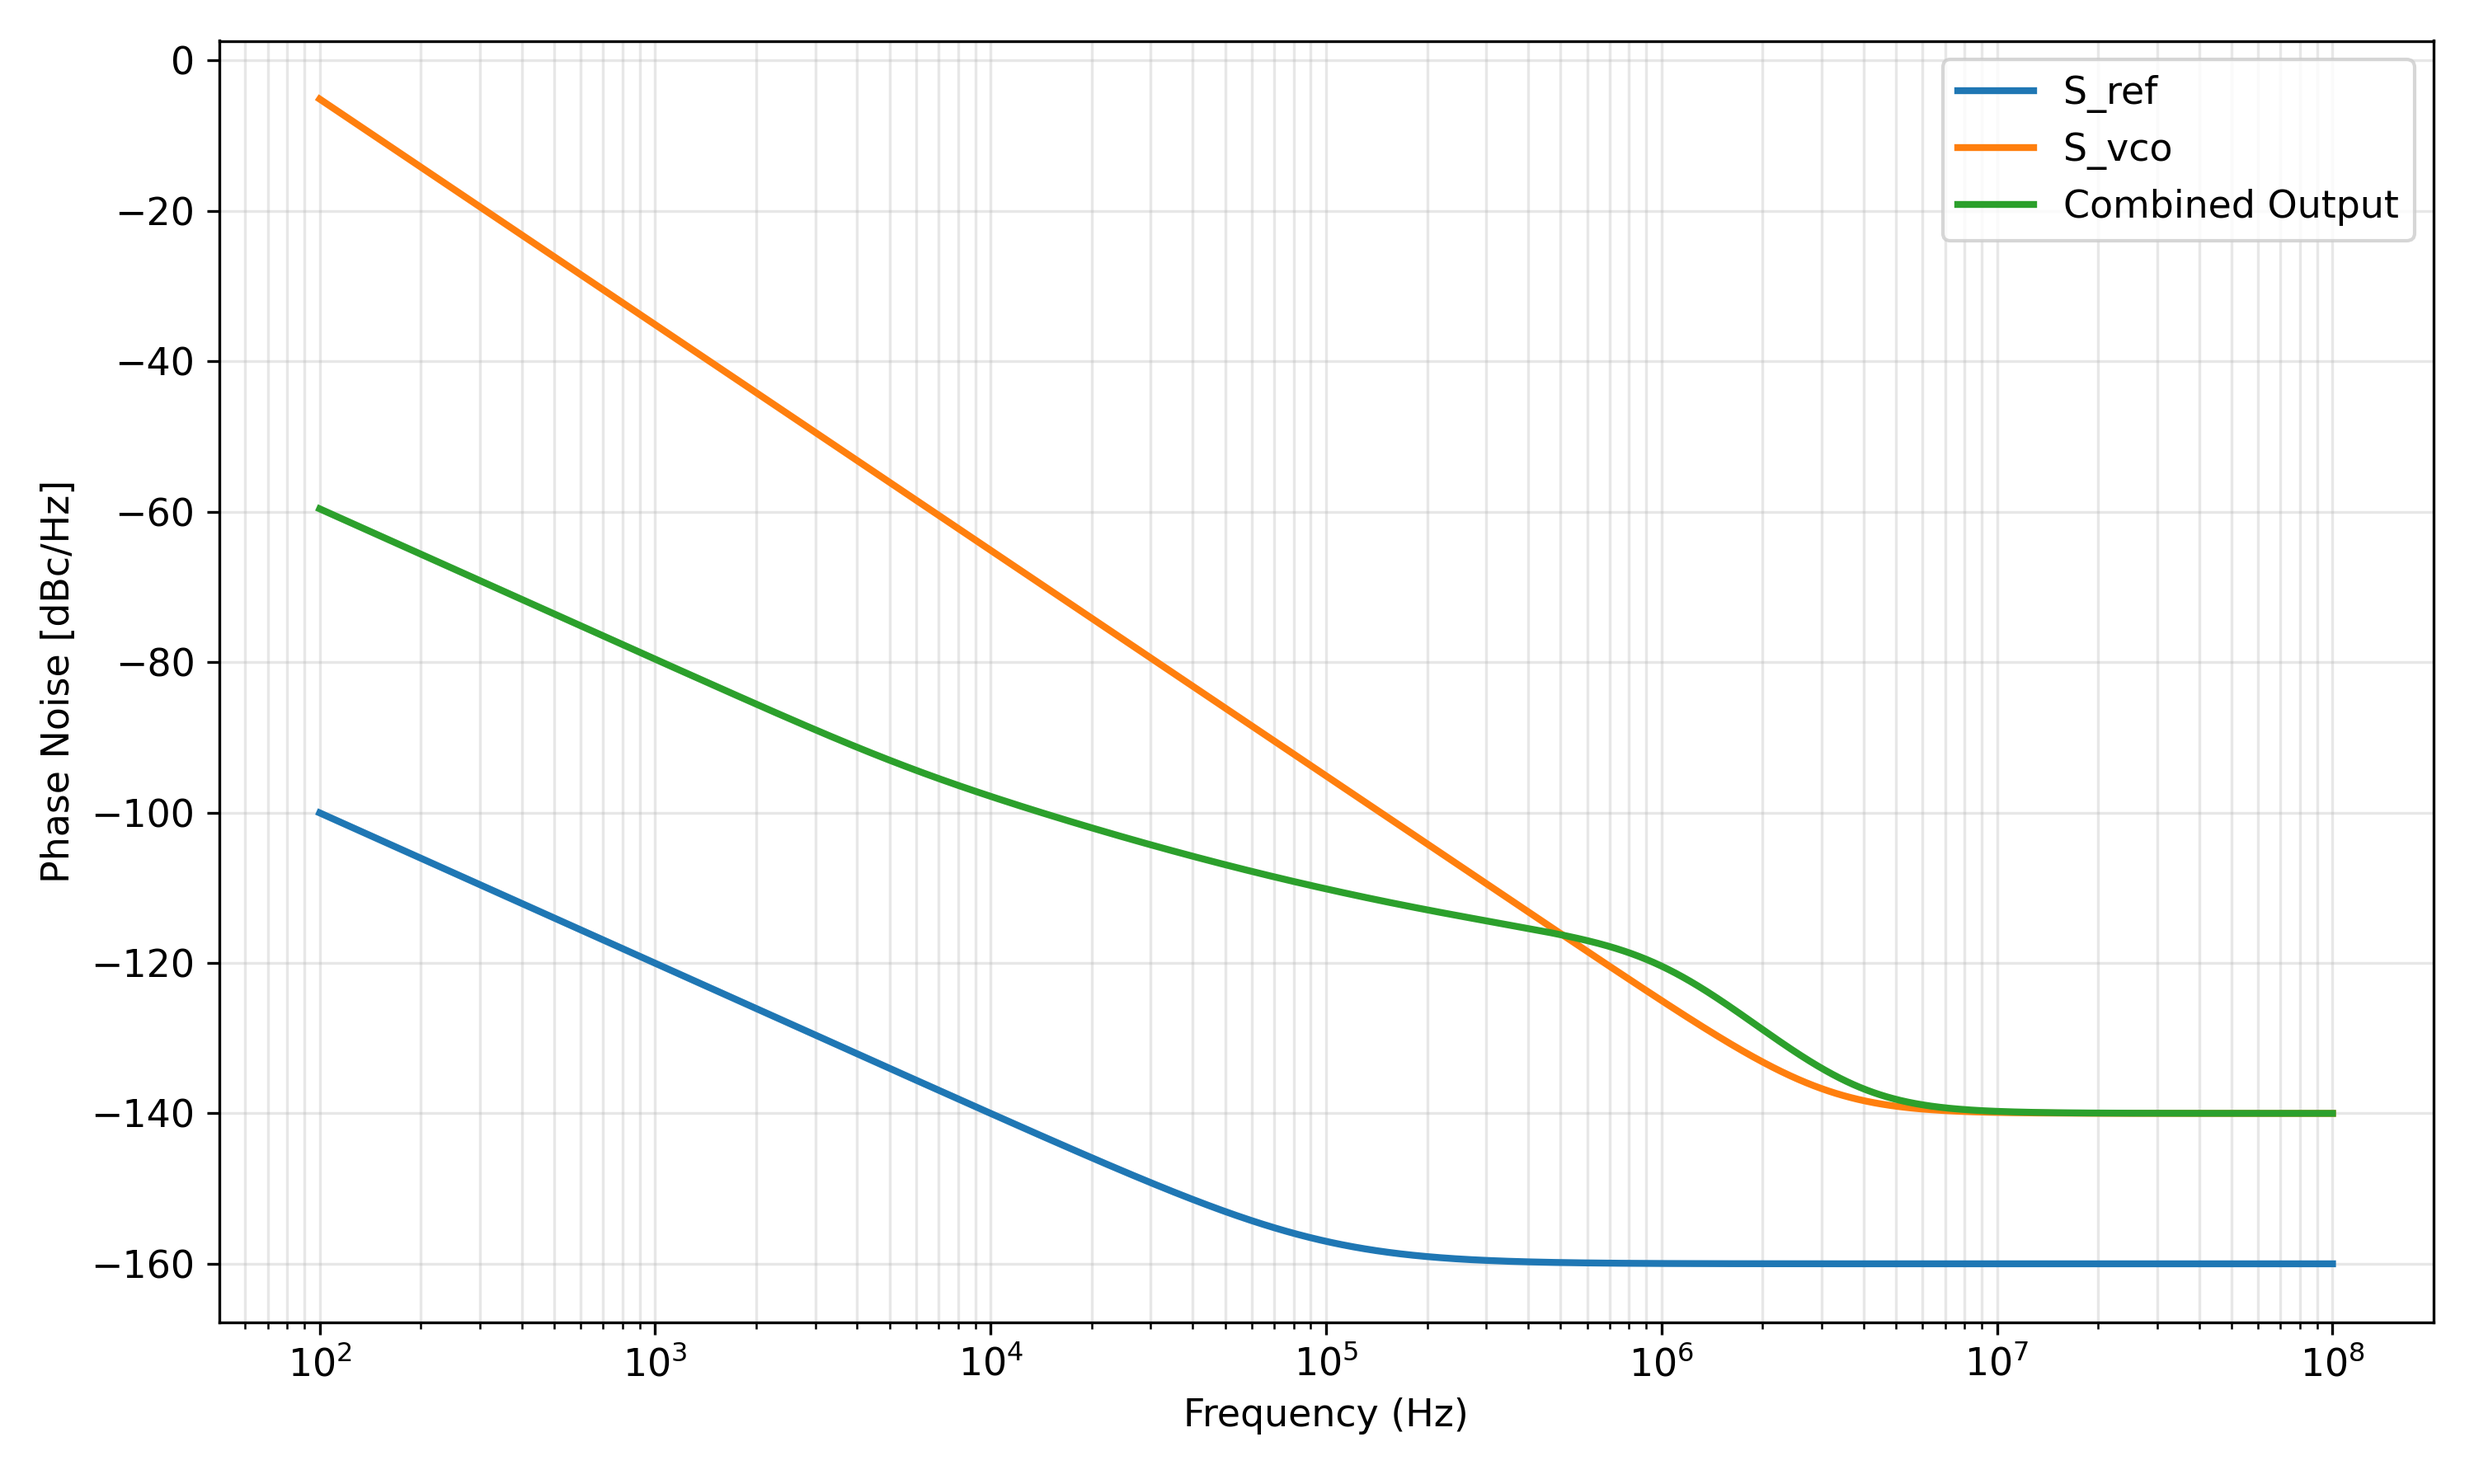
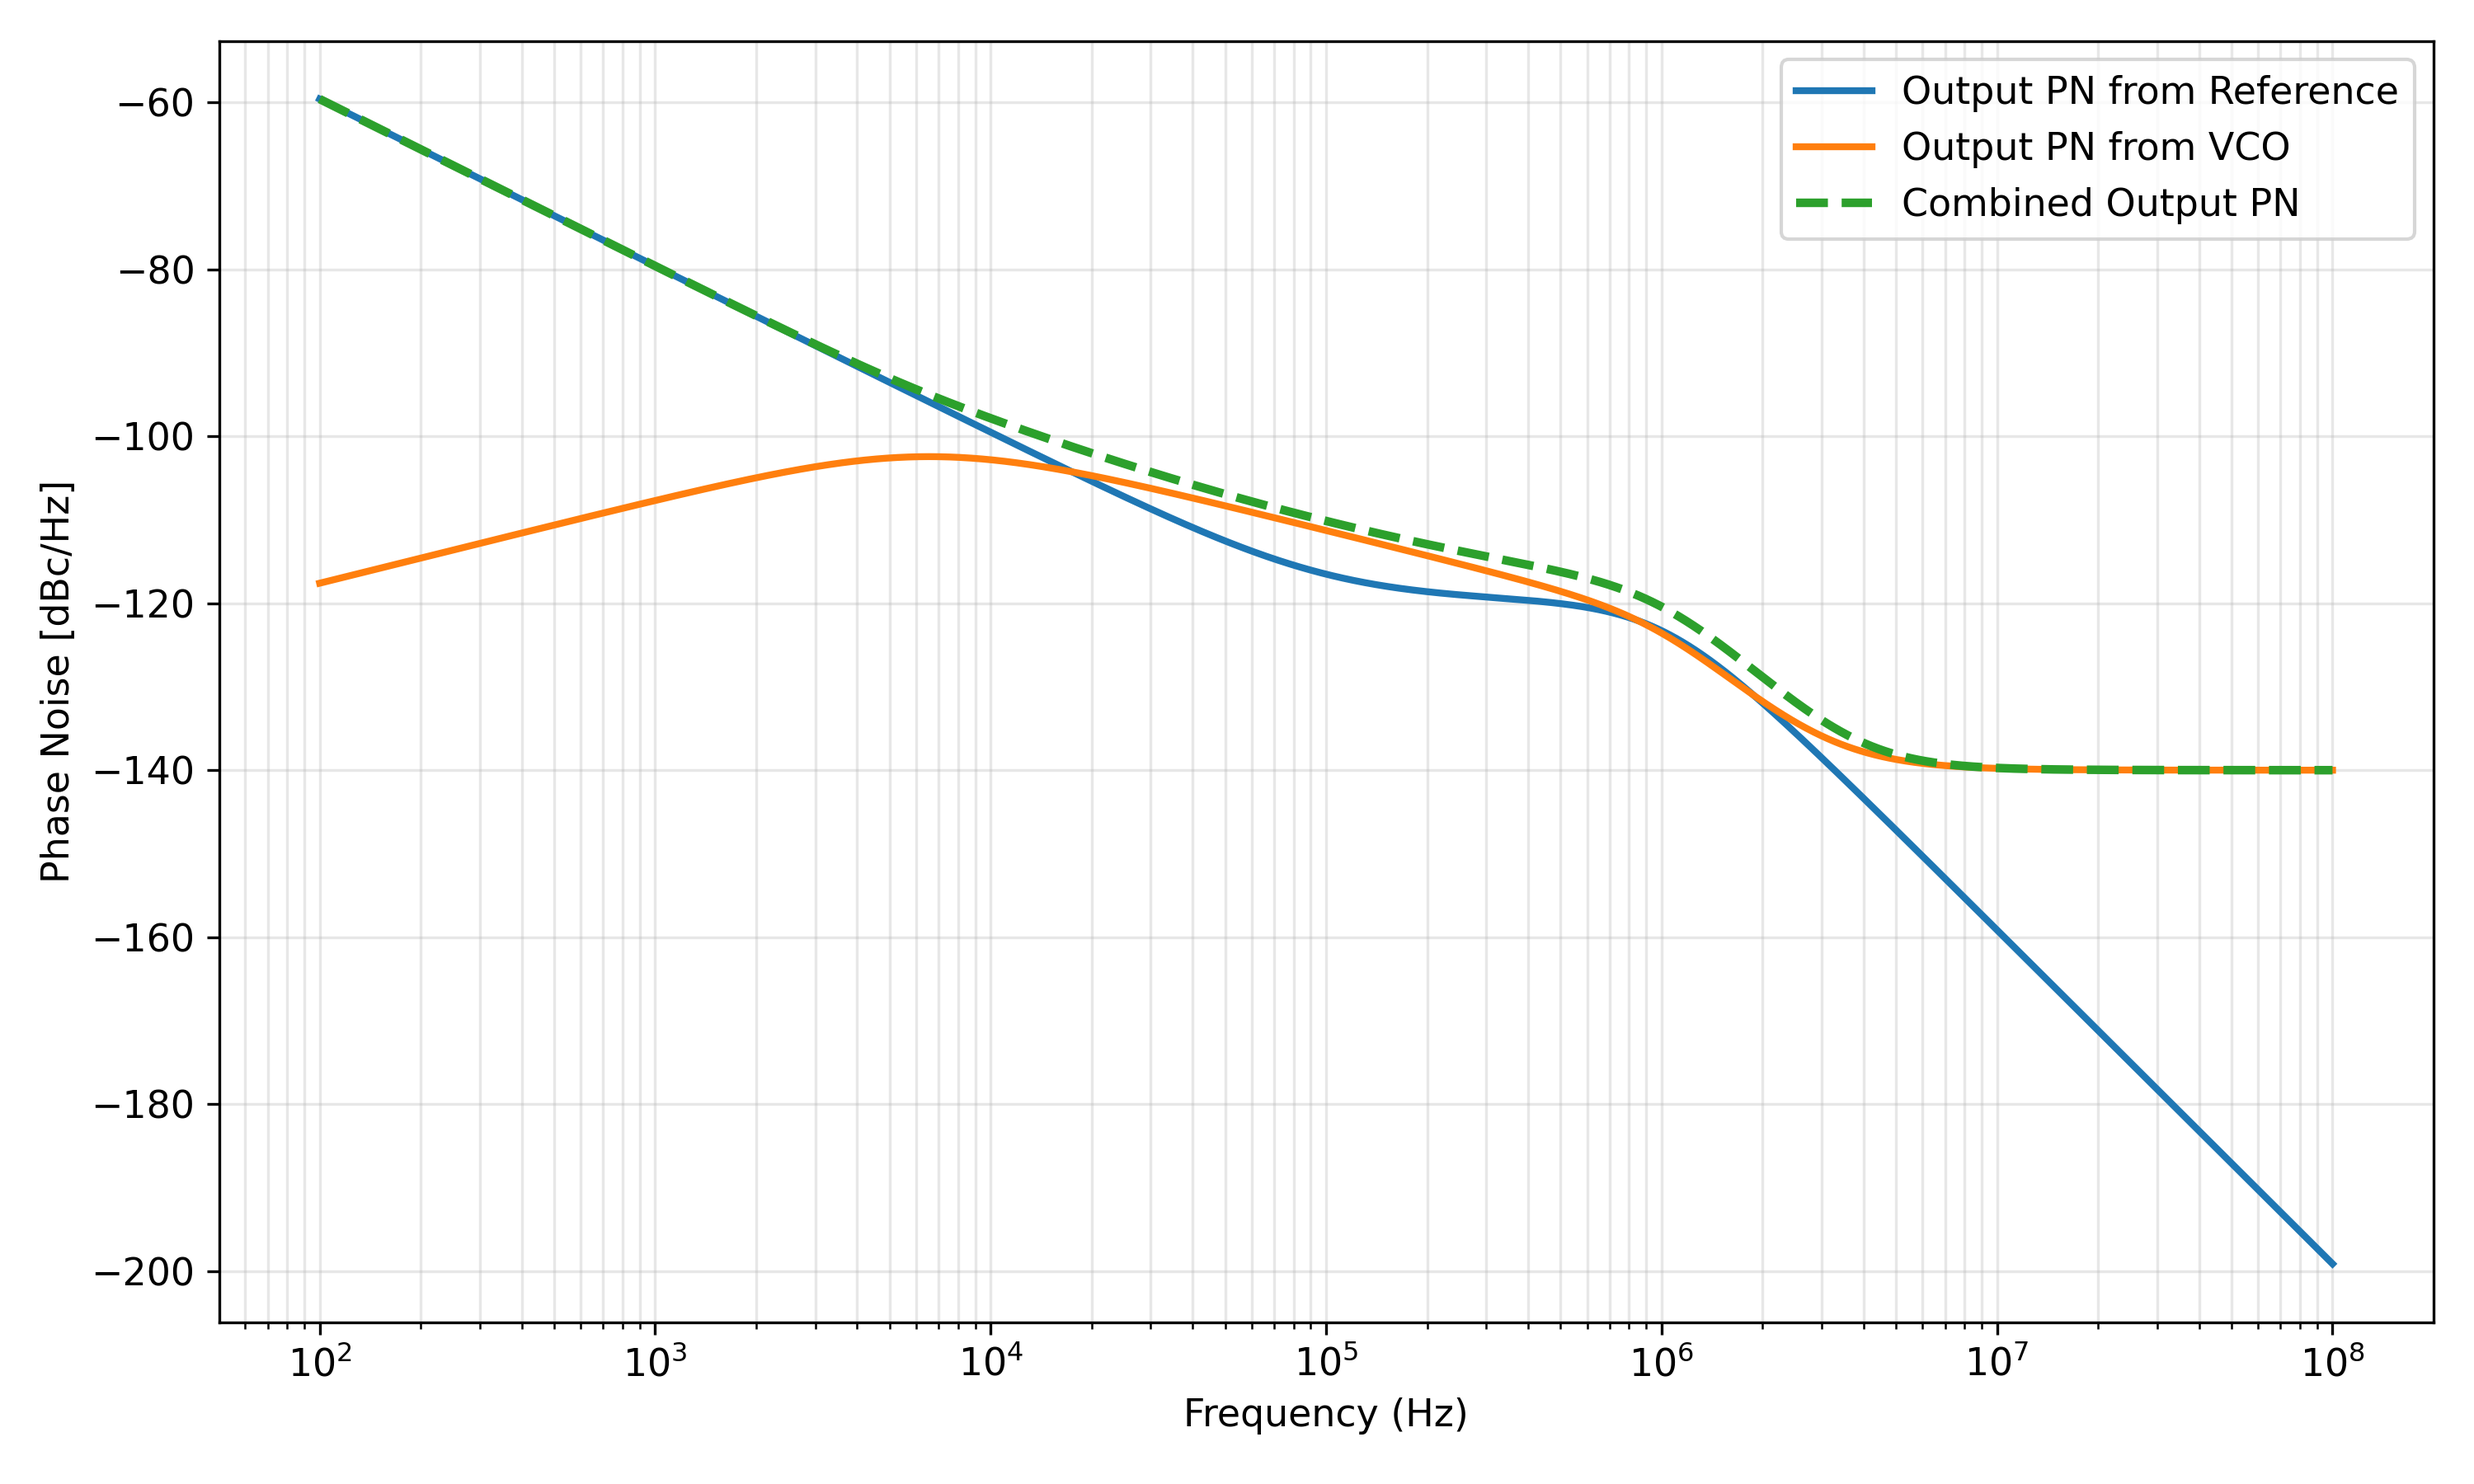
final final

diff --git a/main.py b/main.py
@@ -178,12 +178,24 @@ def design_pll(Q):
     # -----------------------------
     S_ref = 10**(phase_noise_model(f, h0_ref, 0, h2_ref, 0)/10)
     S_vco = 10**(phase_noise_model(f, h0_vco, 0, 0, h3_vco)/10)
-    L_out = 10*np.log10(np.abs(H)**2*S_ref + np.abs(1 / (1 + L))**2*S_vco)
 
+    # Individual contributions (linear)
+    S_out_ref = np.abs(H)**2 * S_ref
+    S_out_vco = np.abs(1 / (1 + L))**2 * S_vco
+
+    # Convert to dBc/Hz
+    L_out_ref = 10*np.log10(S_out_ref)
+    L_out_vco = 10*np.log10(S_out_vco)
+
+    # Combined output
+    L_out = 10*np.log10(S_out_ref + S_out_vco)
+
+    # Plot
     plt.figure()
-    plt.semilogx(f, 10*np.log10(S_ref), linewidth=2, label='S_ref')
-    plt.semilogx(f, 10*np.log10(S_vco), linewidth=2, label='S_vco')
-    plt.semilogx(f, L_out, linewidth=2, label='Combined Output')
+    plt.semilogx(f, L_out_ref, linewidth=2, label='Output PN from Reference')
+    plt.semilogx(f, L_out_vco, linewidth=2, label='Output PN from VCO')
+    plt.semilogx(f, L_out, '--', linewidth=2.5, label='Combined Output PN')
+
     plt.legend()
     plt.grid(True, which='both', alpha=0.3)
     plt.xlabel("Frequency (Hz)")
